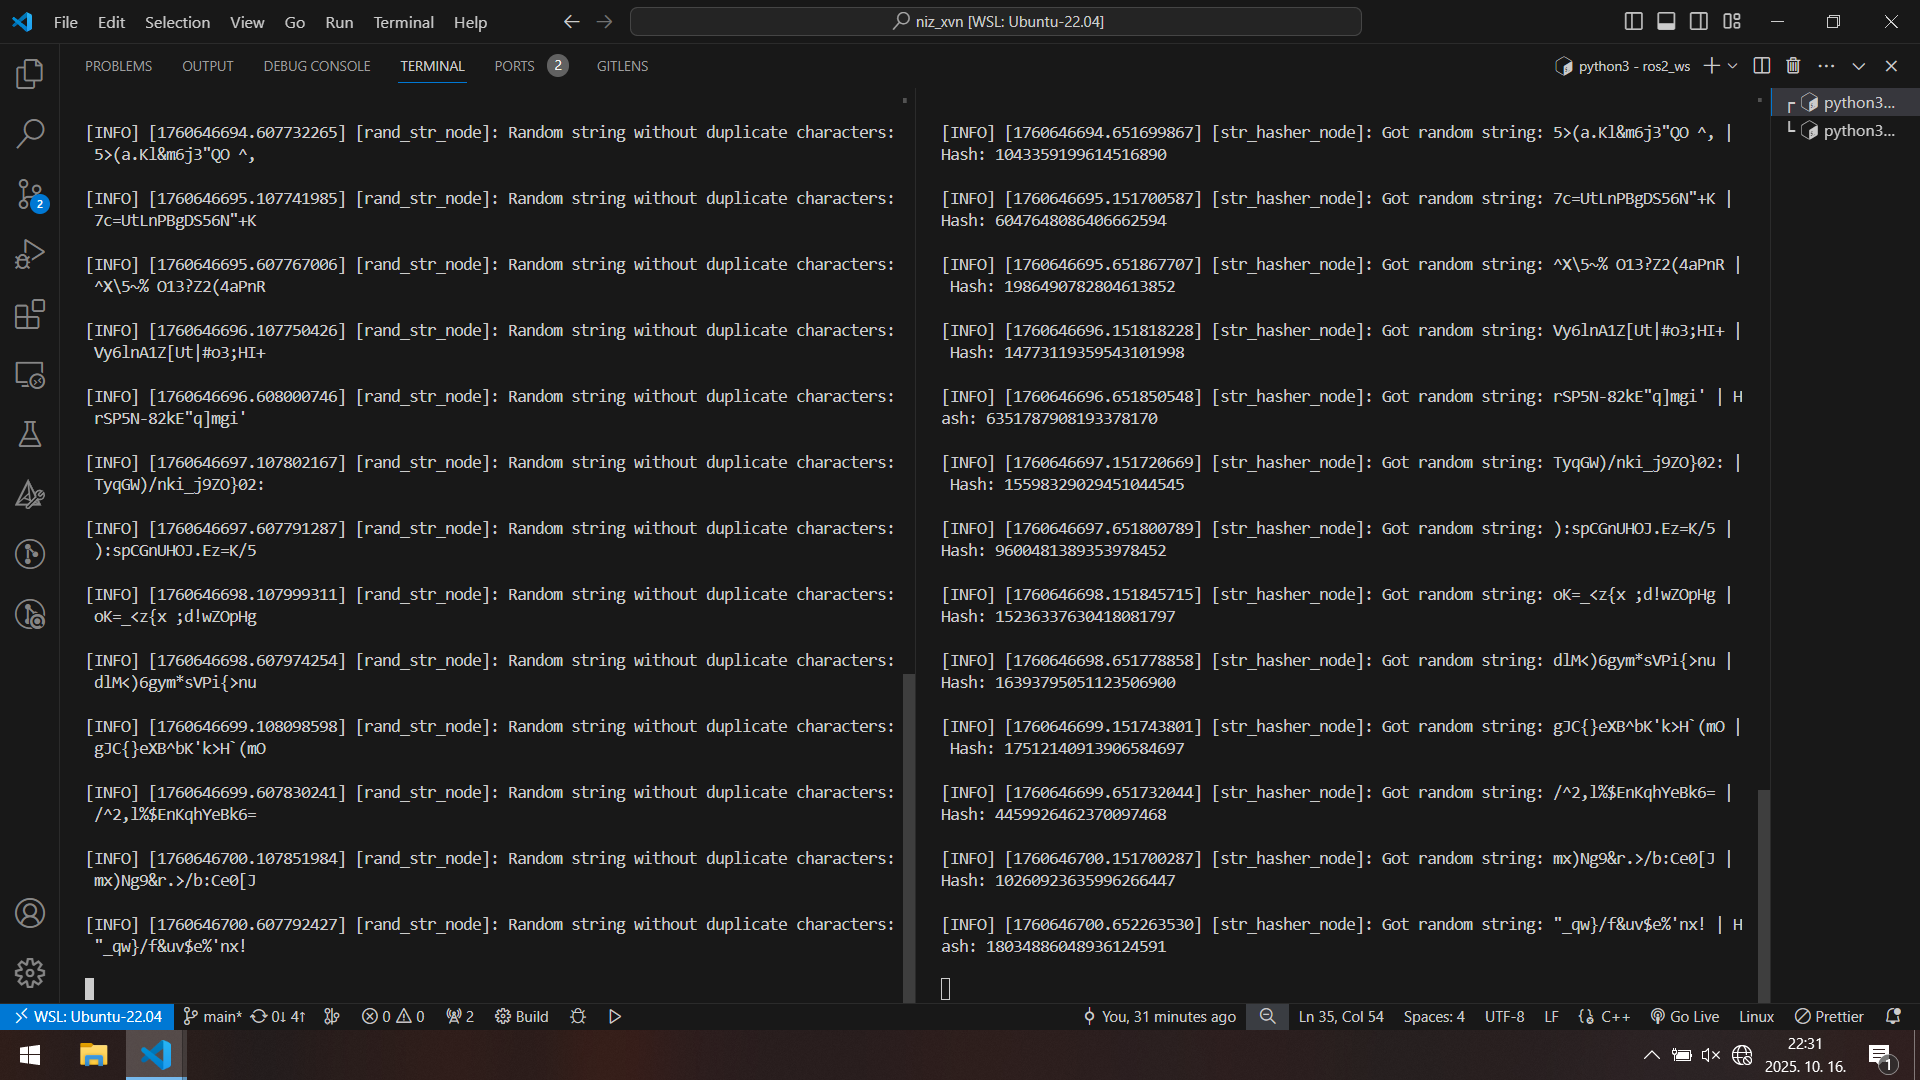
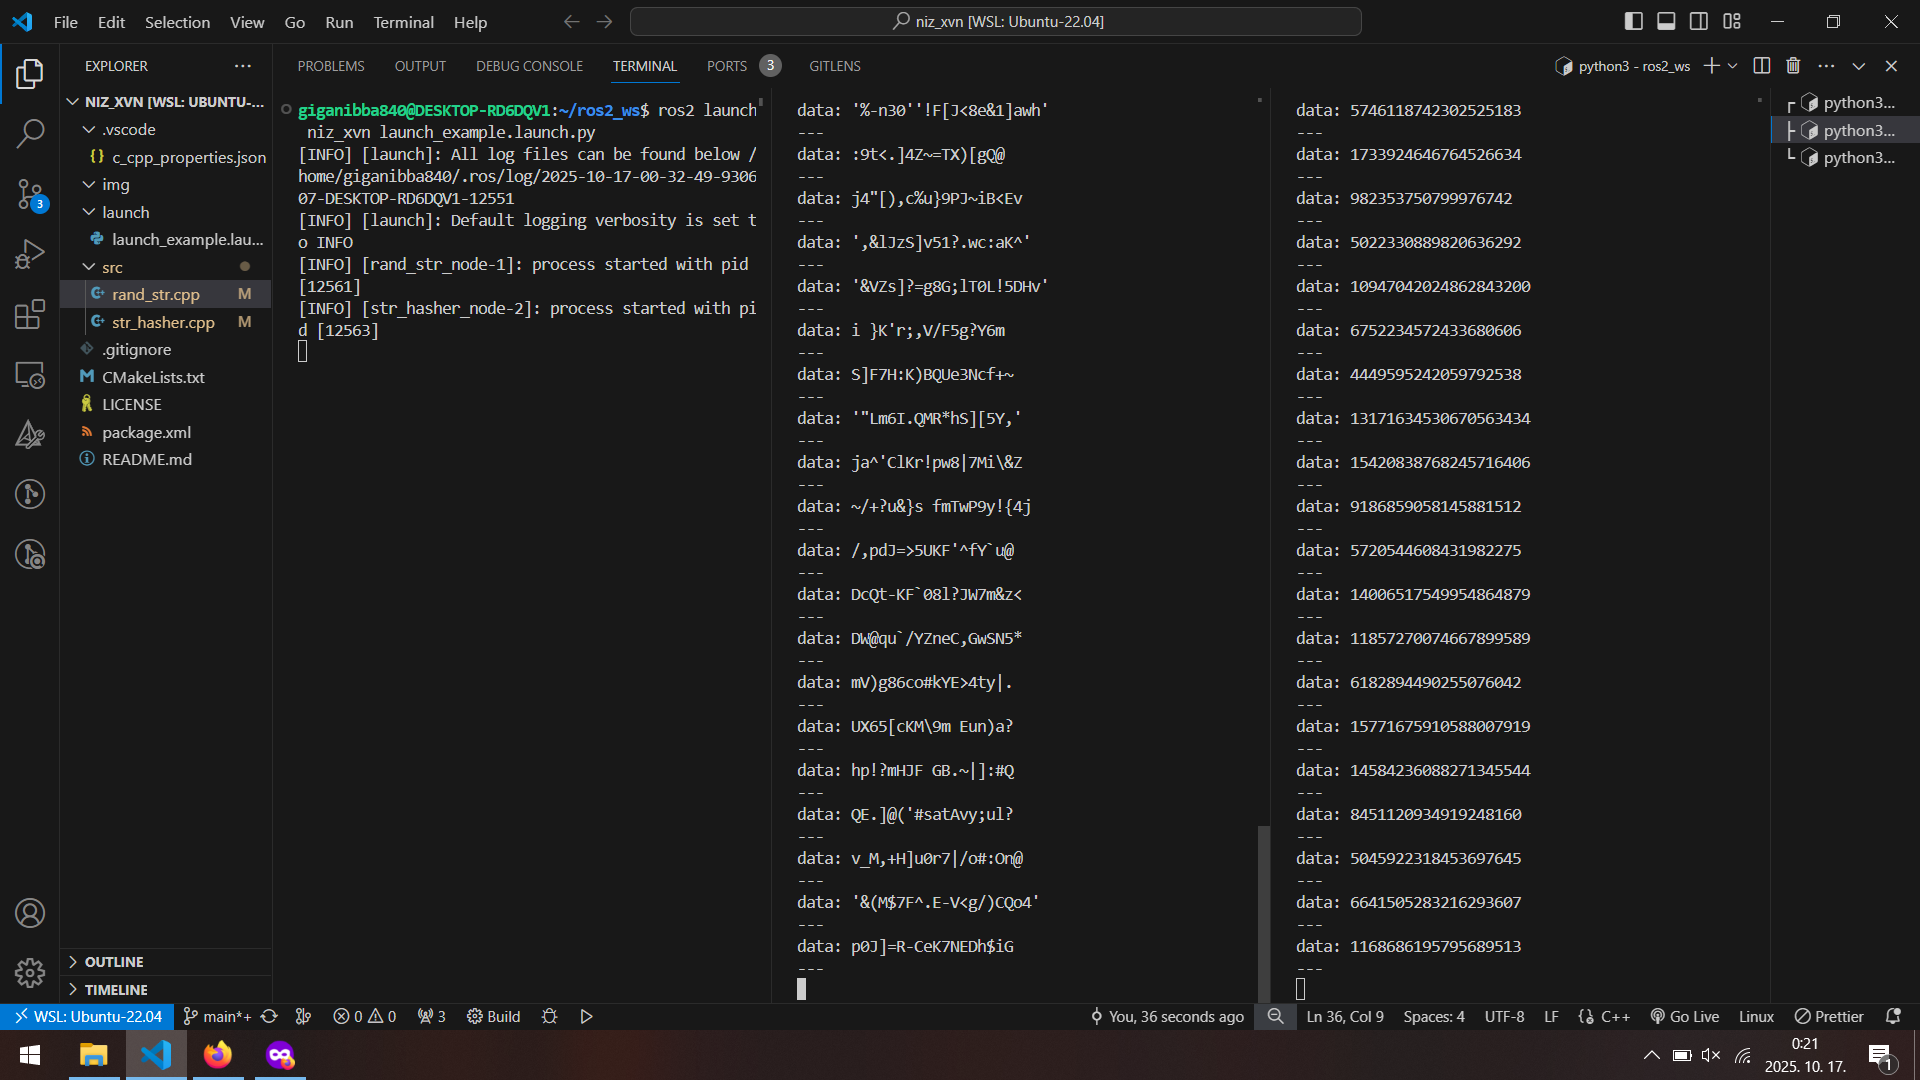
Fixed str_hasher not publishing

diff --git a/src/str_hasher.cpp b/src/str_hasher.cpp
@@ -24,7 +24,9 @@ class Str_hasher : public rclcpp::Node{
         for (auto c : m_str.data)
             hash.data = 33 * hash.data + c;
 
-        RCLCPP_INFO(this->get_logger(), "Got random string: %s | Hash: %zu\n", m_str.data.c_str(), hash.data);
+        // RCLCPP_INFO(this->get_logger(), "Got random string: %s | Hash: %zu\n", m_str.data.c_str(), hash.data);
+        
+        m_publisher->publish(hash);
     }
 
     public:

diff --git a/src/rand_str.cpp b/src/rand_str.cpp
@@ -32,7 +32,8 @@ class Rand_str_generator : public rclcpp::Node{
             }
         }
 
-        RCLCPP_INFO(this->get_logger(), "Random string without duplicate characters: %s\n", s.data.c_str());
+        // RCLCPP_INFO(this->get_logger(), "Random string without duplicate characters: %s\n", s.data.c_str());
+        
         m_publisher->publish(s);
     }
 
